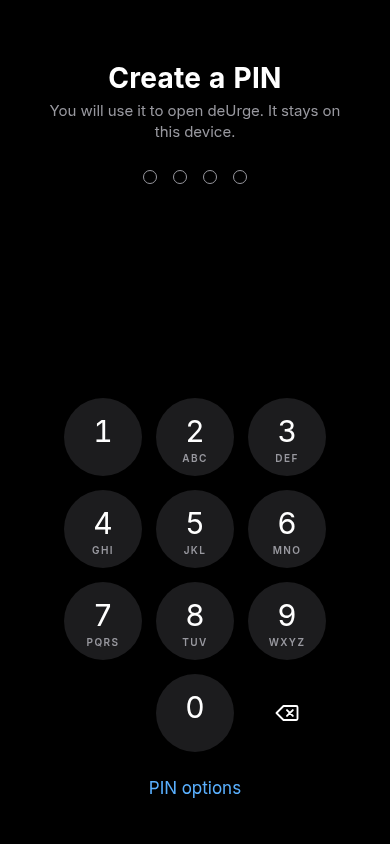
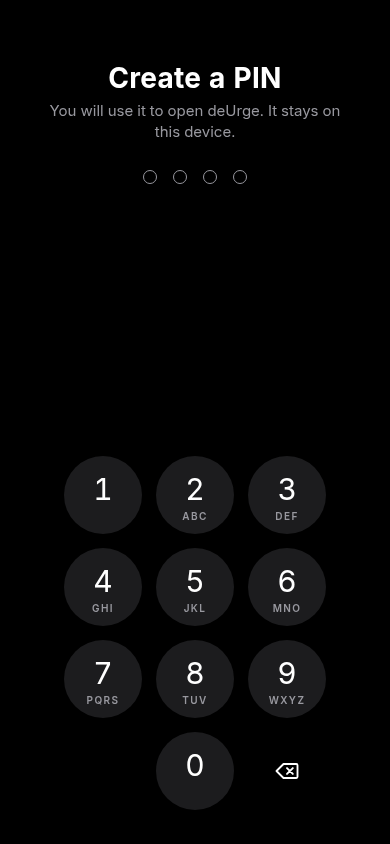
fix(lock): remove non-customisable lock-after row; hide PIN options without biometrics
- The 60-second background auto-lock is a fixed privacy behaviour, not a user
  setting, so the static 'Lock after 1 minute' row is removed from the PIN
  options sheet and the desktop Set PIN card.
- The biometrics opt-in no longer shows non-functional 'Require unlock' /
  'Hide in app switcher' rows.
- 'PIN options' is hidden entirely when biometrics is unavailable (it would
  otherwise be an empty sheet).
- Screenshots refreshed; E2E, production offline, desktop lock flow and all
  core tests pass.

Changed region(s): [[0.3692, 0.4621, 0.8308, 0.9858], [0.1538, 0.4621, 0.3692, 0.8626], [0.7077, 0.8934, 0.7692, 0.9242]]

diff --git a/apps/web/src/features/lock/AppLock.tsx b/apps/web/src/features/lock/AppLock.tsx
@@ -210,8 +210,11 @@ function MobileCreateOrConfirm({
       : stage === 'confirm'
         ? 'Enter the same PIN once more.'
         : 'You will use it to open deUrge. It stays on this device.';
+  // "PIN options" only has the biometrics toggle, so it is not shown at all on
+  // devices where biometrics is unavailable. The 60-second background lock is a
+  // fixed privacy behaviour, not a user setting, so there is no "Lock after" row.
   const bottomAction =
-    stage === 'confirm' ? 'Start over' : stage === 'new' && mode === 'change' ? null : 'PIN options';
+    stage === 'confirm' ? 'Start over' : stage === 'new' && mode === 'create' && biometrics?.available ? 'PIN options' : null;
 
   function fail(message: string): void {
     setError(message);
@@ -301,18 +304,6 @@ function MobileCreateOrConfirm({
           <p className="pn-muted pn-bio-copy">
             Skip typing your PIN. Biometric data stays in the system. deUrge never sees it, and your PIN always works too.
           </p>
-          <div className="pn-group pn-bio-group">
-            <div className="pn-row">
-              <span>Require unlock</span>
-              <span className="pn-muted pn-row-value">Immediately</span>
-            </div>
-            <div className="pn-row">
-              <span>Hide in app switcher</span>
-              <span className="pn-switch on" role="switch" aria-checked="true" aria-label="Hide in app switcher">
-                <i />
-              </span>
-            </div>
-          </div>
           {bioError ? <p className="pn-error">{bioError}</p> : null}
           <button type="button" className="pn-btn pn-btn-primary" onClick={() => void enableBiometrics()}>
             Enable biometrics
@@ -394,10 +385,6 @@ function MobileCreateOrConfirm({
                   </button>
                 </div>
               ) : null}
-              <div className="pn-row">
-                <span>Lock after</span>
-                <span className="pn-muted pn-row-value">1 minute</span>
-              </div>
             </div>
             <button type="button" className="pn-btn pn-btn-primary" onClick={() => setOptionsOpen(false)}>
               Done
@@ -854,8 +841,8 @@ function DesktopSetPin({
             autoComplete="off"
           />
           {error ? <p className="pn-error">{error}</p> : null}
-          <div className="pn-group pn-desktop-options">
-            {availability?.available ? (
+          {availability?.available ? (
+            <div className="pn-group pn-desktop-options">
               <div className="pn-row">
                 <span>Unlock with biometrics</span>
                 <button
@@ -869,12 +856,8 @@ function DesktopSetPin({
                   <i />
                 </button>
               </div>
-            ) : null}
-            <div className="pn-row">
-              <span>Lock after</span>
-              <span className="pn-muted pn-row-value">1 minute</span>
             </div>
-          </div>
+          ) : null}
           <div className="pn-desktop-footer">
             {onCancel ? (
               <button type="button" className="pn-btn-text" onClick={onCancel}>
